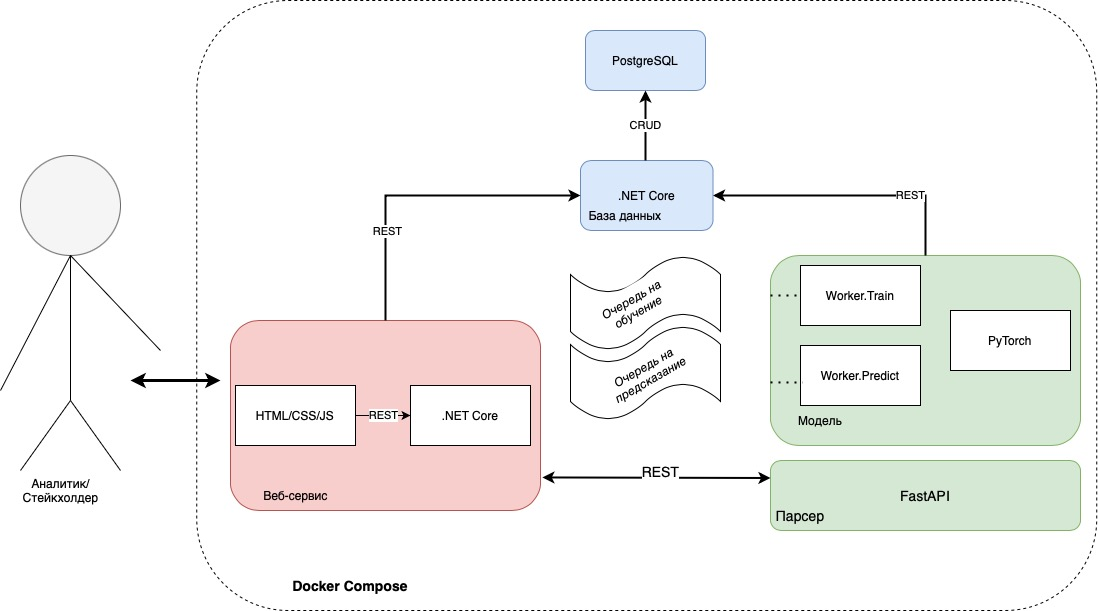
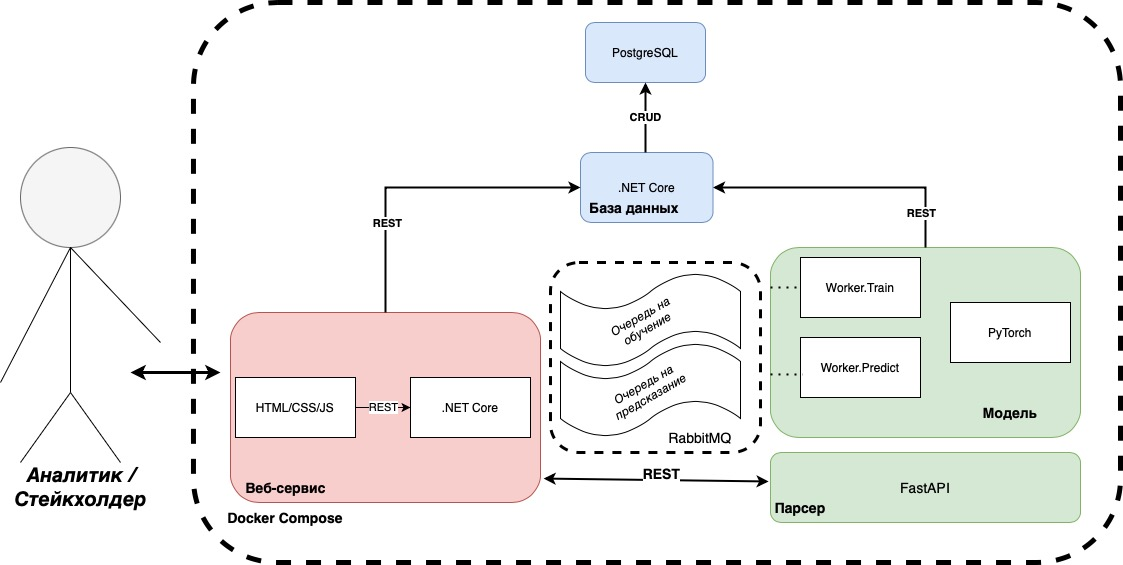
update assets, add results csv

diff --git a/README.md b/README.md
@@ -32,7 +32,7 @@
 
 ### Локальный запуск
 
-Перед тем, как развернуть у себя сервис необходим [Docker](https://docs.docker.com/get-docker/) и [Docker Commpose](https://docs.docker.com/compose/install).
+Перед тем, как развернуть у себя сервис необходим [Docker](https://docs.docker.com/get-docker/) и [Docker Compose](https://docs.docker.com/compose/install).
 
 Если требование выполнено, то выполните 3 простых действия:
 
@@ -60,7 +60,7 @@
 
 ### Референсная Архитектура
 
-В качестве референсных архитектур мы взяли подход IBM в построении решений [AI for IT Operations (AIOps)](https://www.ibm.com/cloud/architecture/architectures/sm-aiops/reference-architecture), из которого мы поняли, что шаги 1-7 и разбиение процесса на этапы (Collect, Organize, Analyze, Infuse) соответствуют нашим потребноостям.
+В качестве референсных архитектур мы взяли подход IBM в построении решений [AI for IT Operations (AIOps)](https://www.ibm.com/cloud/architecture/architectures/sm-aiops/reference-architecture), из которого мы поняли, что разбиение процесса на этапы (Collect, Organize, Analyze, Infuse) соответствуют нашим потребноостям.
 
 ### Паттерны
 
